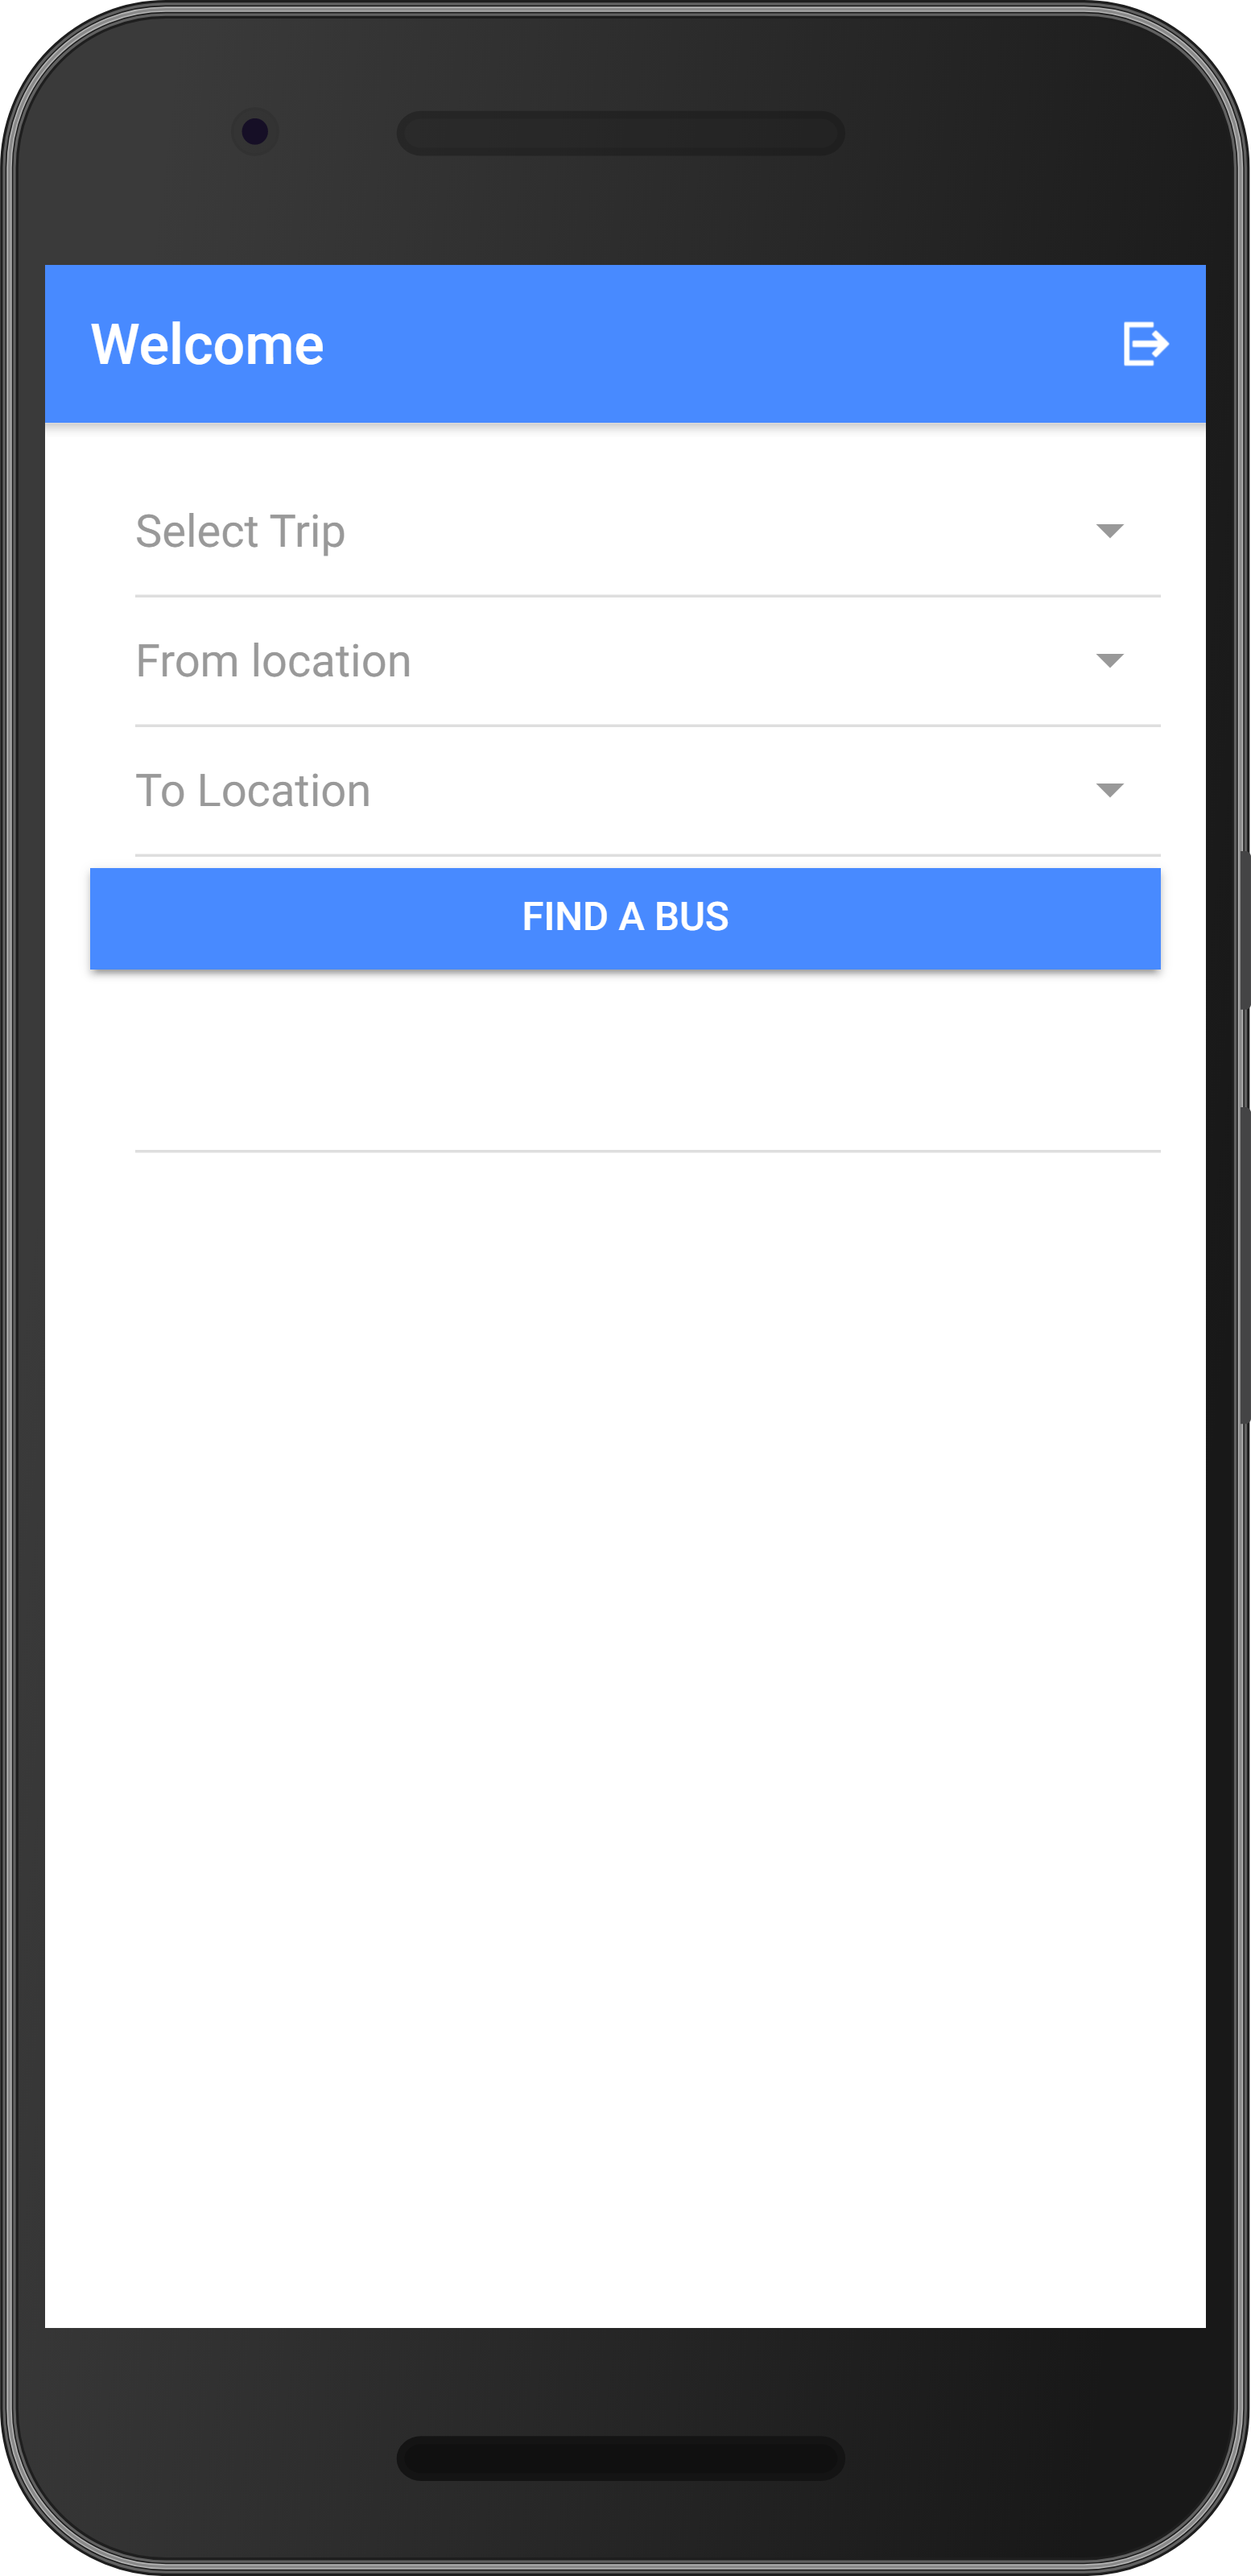
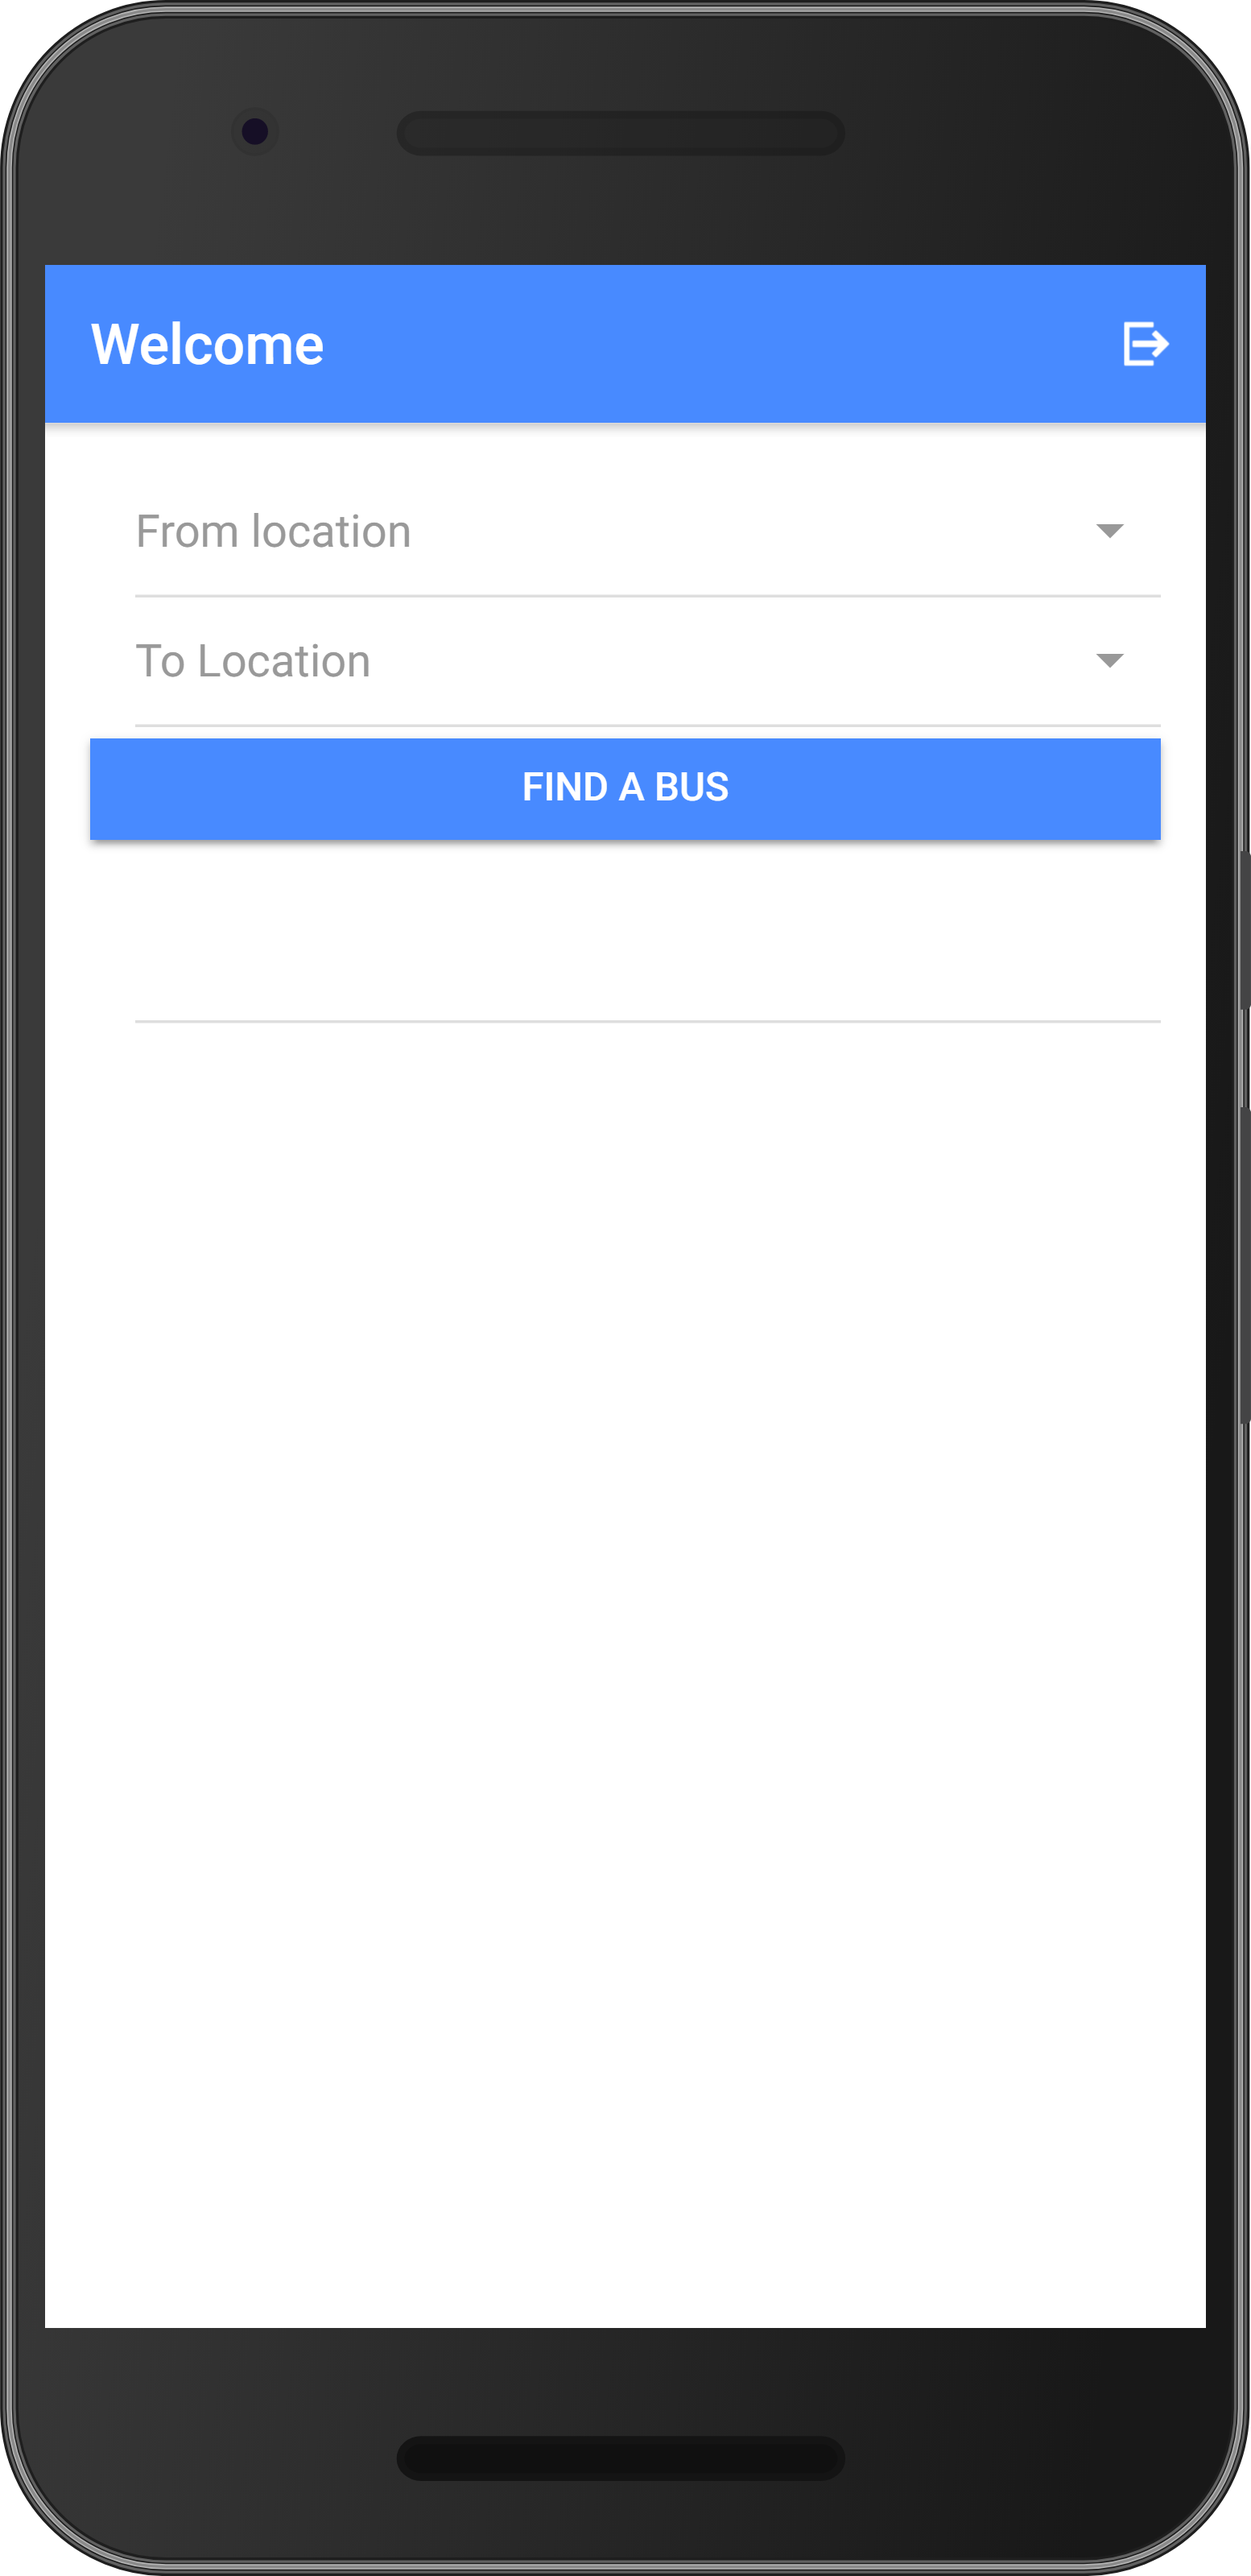
2:36pm

Changed region(s): [[0.0618, 0.2476, 0.9266, 0.4023], [0.1236, 0.1857, 0.3089, 0.2166]]

diff --git a/src/pages/bus/bus.ts b/src/pages/bus/bus.ts
@@ -22,9 +22,7 @@ export class BusPage {
   selectedtoloc:any;
   selectedseats:Array<any> = new Array();
   checkvaldetail:any;
-  value1: any;
-  value2: any;
-  value3: any;
+  value: any;
 
   public SelectSeat: Array<any> = [
     {seat: '01',modelcheck: false, disabledcheck: false},{seat: '02',modelcheck: false, disabledcheck: false},{seat: '03',modelcheck: false, disabledcheck: false},{seat: '04' ,modelcheck: false, disabledcheck: false},{seat: '05',modelcheck: false, disabledcheck: false},{seat: '06',modelcheck: false, disabledcheck: false},{seat: '07',modelcheck: false, disabledcheck: false },{seat: '08',modelcheck: false , disabledcheck: false},{seat: '09',modelcheck: false, disabledcheck: false},{seat: '10' ,modelcheck: false, disabledcheck: false},{seat: '11',modelcheck: false, disabledcheck: false},{seat: '12',modelcheck: false, disabledcheck: false},{seat: '13' ,modelcheck: false, disabledcheck: false},{seat: '14',modelcheck: false, disabledcheck: false},{seat: '15',modelcheck: false, disabledcheck: false},{seat: '16',modelcheck: false, disabledcheck: false},{seat: '17',modelcheck: false, disabledcheck: false},{seat: '18',modelcheck: false, disabledcheck: false},{seat: '19',modelcheck: false , disabledcheck: false},{seat: '20',modelcheck: false, disabledcheck: false}
@@ -32,14 +30,10 @@ export class BusPage {
 
   constructor(public navCtrl: NavController, public navParams: NavParams, public restProvider: RestProvider, public alerCtrl: AlertController) {
 
-    this.value1 = navParams.data.value1;
-    this.value2 = navParams.data.value2;
-    this.value3 = navParams.data.value3;
-    console.log(this.value1);
-    console.log(this.value2);
-    console.log(this.value3);
+    this.value = navParams.data.value;
+    console.log(this.value);
 
-      this.restProvider.getbusticketdetails(this.selectedtrip).then(data=> {
+      this.restProvider.getbusticketdetails(this.value).then(data=> {
           console.log(data);
           this.disableSeatsIfbooked(data);
       });

diff --git a/src/pages/home/home.html b/src/pages/home/home.html
@@ -9,12 +9,12 @@
   </ion-navbar>
 </ion-header>
 <ion-content padding>
-  <ion-item>
+  <!-- <ion-item>
     <ion-label>Select Trip</ion-label>
     <ion-select [(ngModel)]="trip" (ionChange)="changelocation(trip)">
       <ion-option *ngFor="let trip of tripList" [value]="trip.bustrip_id">{{ trip.trips }} - {{trip.bus_num}}</ion-option>
     </ion-select>
-  </ion-item>
+  </ion-item> -->
   <ion-item>
     <ion-label>From location</ion-label>
     <ion-select [(ngModel)]="locationfrom" (ionChange)="changefromlocation(locationfrom)">
@@ -23,7 +23,7 @@
   </ion-item>
   <ion-item>
     <ion-label>To Location</ion-label>
-    <ion-select [(ngModel)]="locationto">
+    <ion-select [(ngModel)]="locationto" (ionChange)="changetolocation(locationto)">
       <ion-option *ngFor="let locationto of locationtolist" [value]="locationto.bustriplocid">{{ locationto.location }}</ion-option>
     </ion-select>
   </ion-item>
@@ -37,7 +37,7 @@
         Select your bus
       </ion-list-header>
       <ion-list *ngFor="let bus of BusList">
-        <ion-item item-start tappable (click)="tapEvent()">
+        <ion-item item-start tappable (click)="tapEvent(bus.bus_id,bus.trip_id)">
           <ion-icon name="custom-bus" item-left primary></ion-icon>
           BMTC -
           <ion-note ion-text color="primary">

diff --git a/src/pages/home/home.ts b/src/pages/home/home.ts
@@ -16,10 +16,12 @@ export class HomePage {
   selectedtrip:any;
   selectedfromloc:any;
   selectedtoloc:any;
-
+  tripbusid: any;
+  
 
   constructor(public navCtrl: NavController, public restProvider: RestProvider,public alerCtrl: AlertController) {
      this.gettrip();
+     this.changelocation(this.tripbusid);
   }
 
   findBus()
@@ -41,9 +43,12 @@ export class HomePage {
 
   changelocation(trip)
   {
-    var tipdt=trip.split("_");
-    this.selectedtrip=tipdt[0]+"_"+tipdt[1];
-    
+
+    if(trip)
+    {
+      var tipdt=trip.split("_");
+      this.selectedtrip=tipdt[0]+"_"+tipdt[1];
+    }
 
     this.restProvider.getfromlocation(trip).then(data=> {
       // console.log(data);
@@ -93,13 +98,11 @@ export class HomePage {
       alert.present() 
   }
 
-  tapEvent() {
-            this.navCtrl.push(BusPage,{
-              value1: this.tripList,
-              value2: this.locationfromlist,
-              value3: this.locationtolist
-              // locationfromlist: ctrl,
-              // locationtolist: ctrl
-            })
-  }
+  tapEvent(bus_id,trip_id) 
+    {
+      var navvalue = bus_id + "_"+trip_id+ "_" +this.selectedfromloc+"_"+this.selectedtoloc ;
+      this.navCtrl.push(BusPage,{
+        value: navvalue
+      })
+    }
 }
